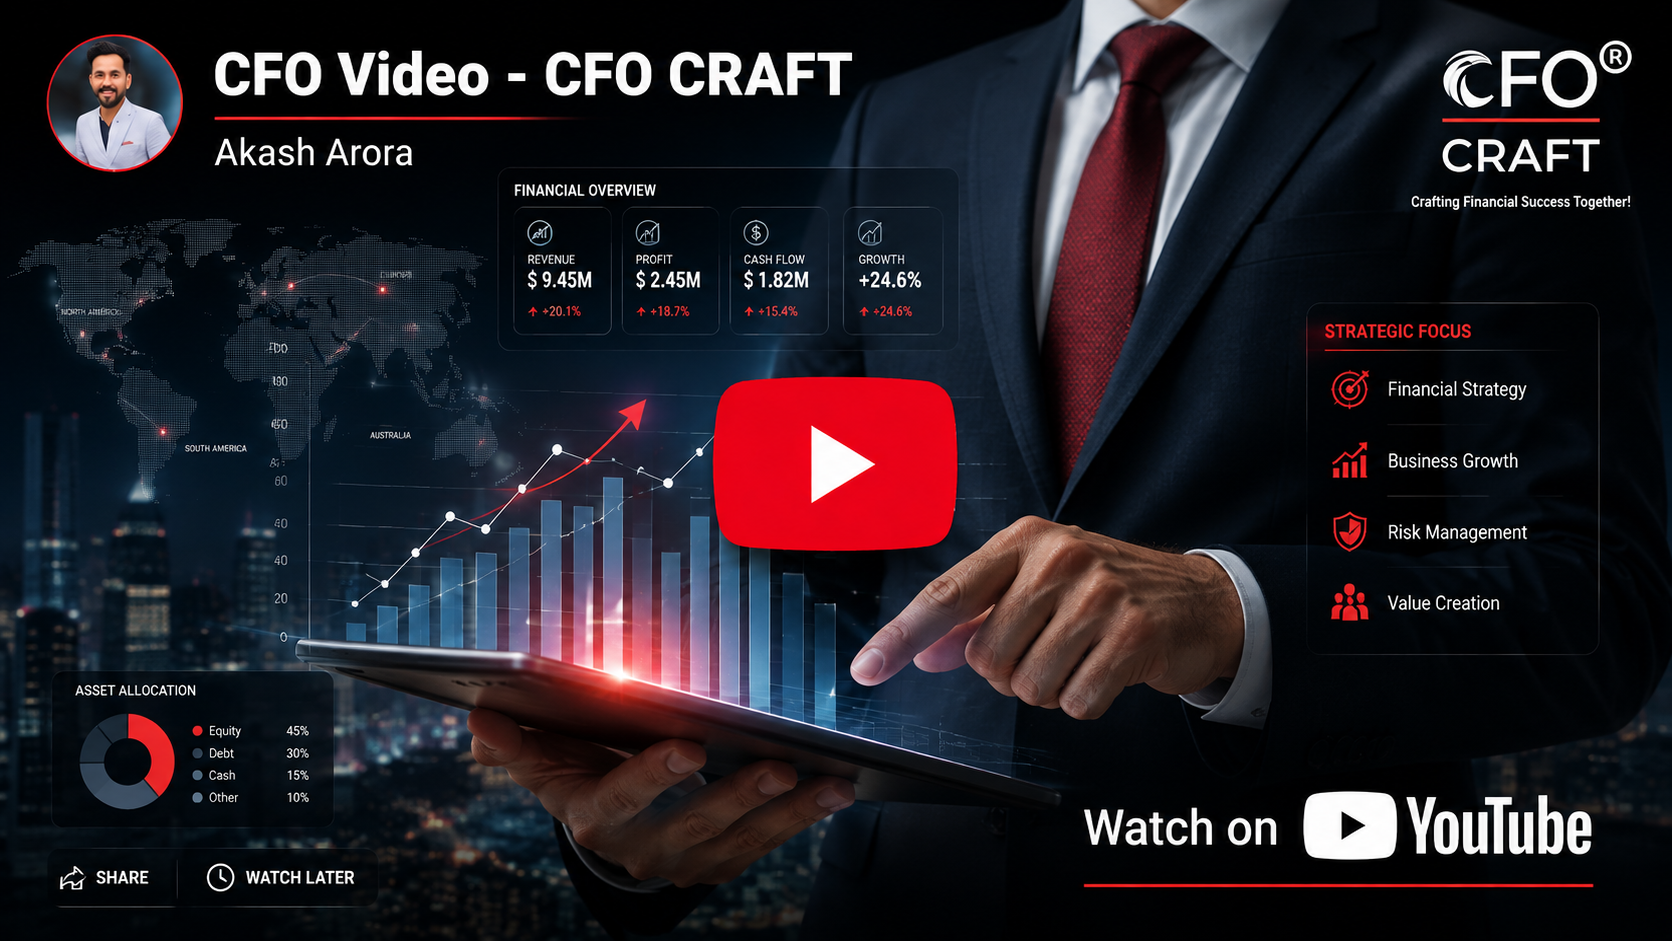
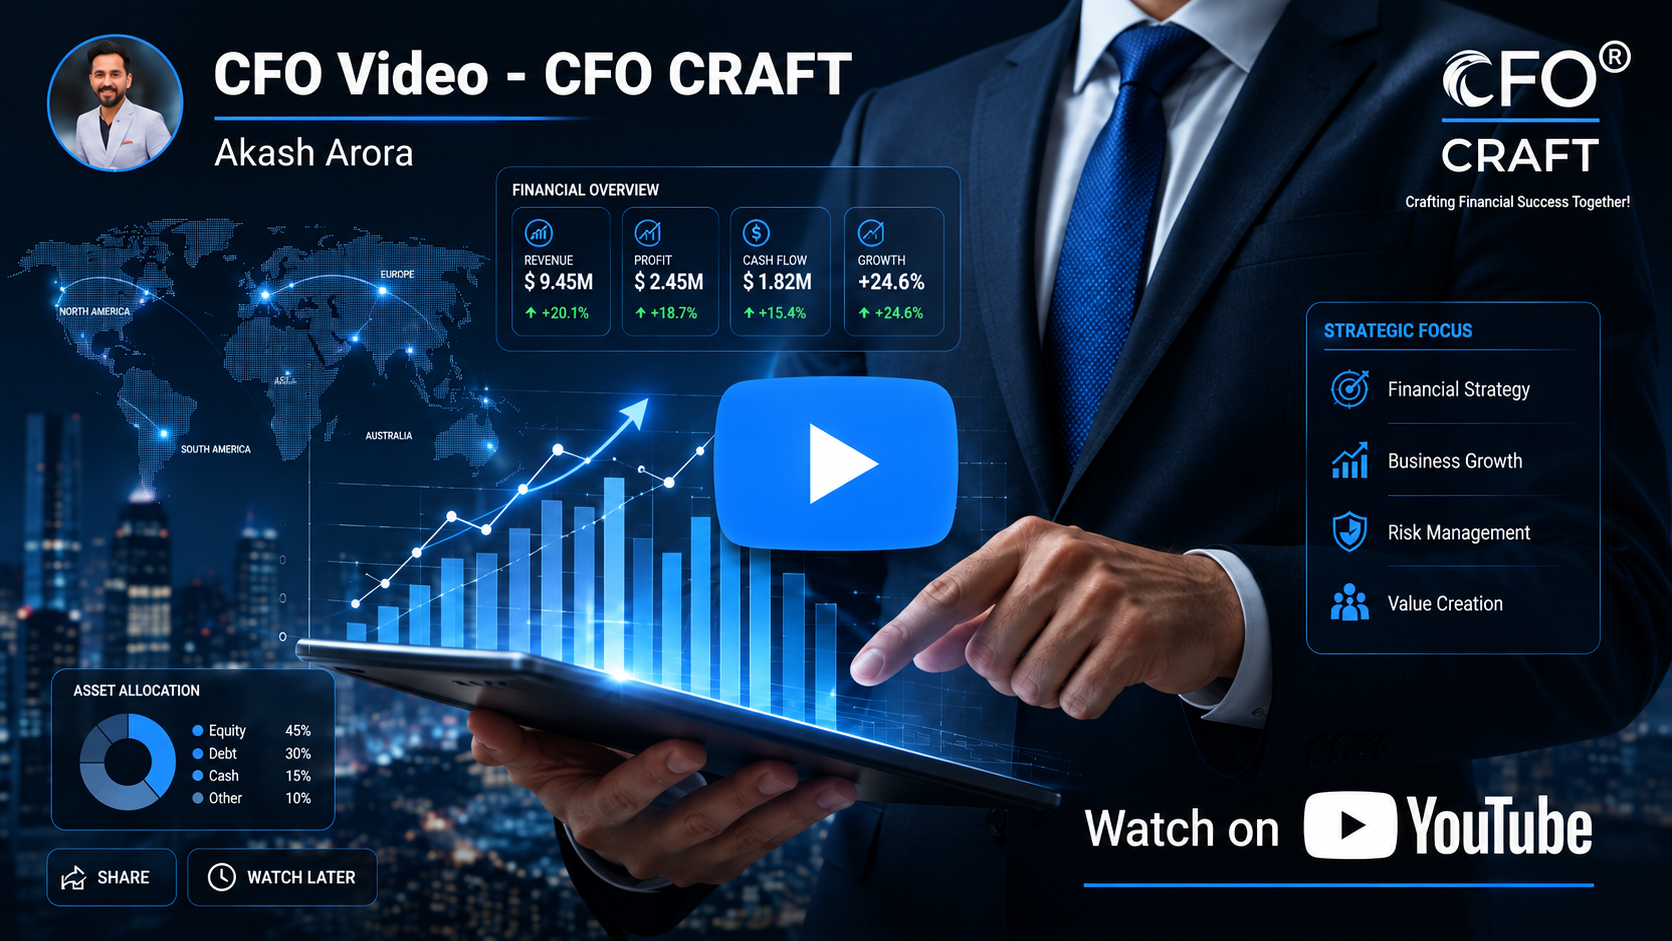
proper image align with system color updated.

diff --git a/src/sections/Footer.jsx b/src/sections/Footer.jsx
@@ -230,14 +230,14 @@ const Footer = () => {
                 font-black
                 tracking-[-0.04em]
                 relative
-                -left-13
+                lg:-left-[6px]
               "
             >
               <img
                 src={logo}
                 alt="CFO Craft"
                 className="
-                  h-32
+                  h-16
                   w-auto
                   object-contain
                 "
@@ -288,7 +288,7 @@ const Footer = () => {
                     text-[#92958F]
                     transition-colors
                     duration-300
-                    hover:text-[#F4F1EA]
+                    hover:text-[#A6CBF7]
                   "
                 >
                   Home
@@ -318,7 +318,7 @@ const Footer = () => {
                     text-[#92958F]
                     transition-colors
                     duration-300
-                    hover:text-[#F4F1EA]
+                    hover:text-[#A6CBF7]
                   "
                 >
                   Services
@@ -348,7 +348,7 @@ const Footer = () => {
                     text-[#92958F]
                     transition-colors
                     duration-300
-                    hover:text-[#F4F1EA]
+                    hover:text-[#A6CBF7]
                   "
                 >
                   Case Studies
@@ -378,7 +378,7 @@ const Footer = () => {
                     text-[#92958F]
                     transition-colors
                     duration-300
-                    hover:text-[#F4F1EA]
+                    hover:text-[#A6CBF7]
                   "
                 >
                   FAQ
@@ -408,7 +408,7 @@ const Footer = () => {
                     text-[#92958F]
                     transition-colors
                     duration-300
-                    hover:text-[#F4F1EA]
+                    hover:text-[#A6CBF7]
                   "
                 >
                   Contact
@@ -493,7 +493,7 @@ const Footer = () => {
                   text-[#92958F]
                   transition-colors
                   duration-300
-                  hover:text-[#F4F1EA]
+                  hover:text-[#A6CBF7]
                 "
               >
                 <Mail
@@ -519,7 +519,7 @@ const Footer = () => {
                   text-[#92958F]
                   transition-colors
                   duration-300
-                  hover:text-[#F4F1EA]
+                  hover:text-[#A6CBF7]
                 "
               >
                 <Phone

diff --git a/src/sections/Contact.jsx b/src/sections/Contact.jsx
@@ -636,7 +636,7 @@ function Contact() {
           <div
             className="
               relative
-              w-3/4
+              w-full
               rounded-2xl
               border
               border-white/[0.10]
@@ -644,6 +644,7 @@ function Contact() {
               shadow-[0_0_45px_rgba(229,72,63,0.035)]
               backdrop-blur-xl
               sm:p-6
+              lg:w-3/4
               lg:p-7
               lg:mr-8
               lg:ml-auto

diff --git a/src/components/Navbar.jsx b/src/components/Navbar.jsx
@@ -56,14 +56,16 @@ function Navbar() {
             duration-300
             hover:opacity-90
             relative
-            -left-8
+            -left-3
+            lg:-left-2
           "
         >
           <img
             src={logo}
             alt="CFO Craft"
             className="
-              h-32
+              h-13
+              lg:h-16
               w-auto
               object-contain
             "
